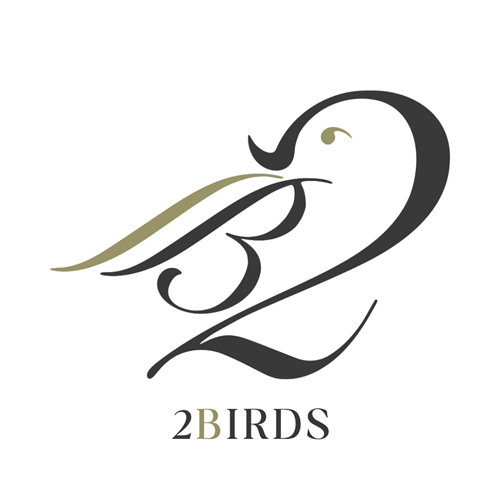
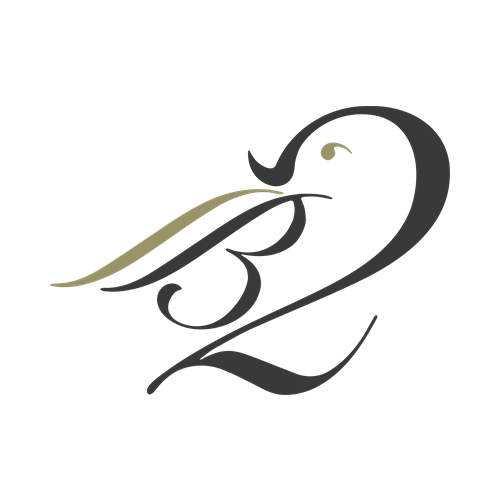
Social sharing: use bird mark only (no wordmark) on the square OG image
Drop the "2BIRDS" wordmark from the share image per request — the mark alone
has nothing at the bottom to crop, so it reads cleanly as a square preview.
500x500 white square, mark centered. Bump cache v8 -> v9.

Changed region(s): [[0.09, 0.18, 0.9, 0.9]]

diff --git a/revenue.html b/revenue.html
@@ -10,8 +10,8 @@
 <meta property="og:title" content="2birds asia | Revenue" />
 <meta property="og:description" content="Marketing that returns as revenue, for training and adult education. Brand, campaigns, graphic and social design with our in-house creative producer Ng Chen Yao, and personal branding video with PixPlaySG, held within SSG's advertising rules." />
 <meta property="og:url" content="https://www.2birds.asia/revenue" />
-<meta property="og:image" content="https://www.2birds.asia/assets/og-image.png?v=8" />
-<meta property="og:image:secure_url" content="https://www.2birds.asia/assets/og-image.png?v=8" />
+<meta property="og:image" content="https://www.2birds.asia/assets/og-image.png?v=9" />
+<meta property="og:image:secure_url" content="https://www.2birds.asia/assets/og-image.png?v=9" />
 <meta property="og:image:type" content="image/png" />
 <meta property="og:image:width" content="500" />
 <meta property="og:image:height" content="500" />
@@ -19,7 +19,7 @@
 <meta name="twitter:card" content="summary" />
 <meta name="twitter:title" content="2birds asia | Revenue" />
 <meta name="twitter:description" content="Marketing that returns as revenue, for training and adult education. Brand, campaigns, graphic and social design with our in-house creative producer Ng Chen Yao, and personal branding video with PixPlaySG, held within SSG's advertising rules." />
-<meta name="twitter:image" content="https://www.2birds.asia/assets/og-image.png?v=8" />
+<meta name="twitter:image" content="https://www.2birds.asia/assets/og-image.png?v=9" />
 
 <link rel="icon" type="image/png" href="assets/favicon.png?v=7" />
 <link rel="shortcut icon" type="image/png" href="assets/favicon.png?v=7" />

diff --git a/curriculum.html b/curriculum.html
@@ -10,8 +10,8 @@
 <meta property="og:title" content="2birds asia | Curriculum" />
 <meta property="og:description" content="Curriculum development for Approved Training Organisations — courseware, assessment instruments and trainer guides mapped to the Skills Framework, built to pass TPQA and submitted through TPGateway." />
 <meta property="og:url" content="https://www.2birds.asia/curriculum" />
-<meta property="og:image" content="https://www.2birds.asia/assets/og-image.png?v=8" />
-<meta property="og:image:secure_url" content="https://www.2birds.asia/assets/og-image.png?v=8" />
+<meta property="og:image" content="https://www.2birds.asia/assets/og-image.png?v=9" />
+<meta property="og:image:secure_url" content="https://www.2birds.asia/assets/og-image.png?v=9" />
 <meta property="og:image:type" content="image/png" />
 <meta property="og:image:width" content="500" />
 <meta property="og:image:height" content="500" />
@@ -19,7 +19,7 @@
 <meta name="twitter:card" content="summary" />
 <meta name="twitter:title" content="2birds asia | Curriculum" />
 <meta name="twitter:description" content="Curriculum development for Approved Training Organisations — courseware, assessment instruments and trainer guides mapped to the Skills Framework, built to pass TPQA and submitted through TPGateway." />
-<meta name="twitter:image" content="https://www.2birds.asia/assets/og-image.png?v=8" />
+<meta name="twitter:image" content="https://www.2birds.asia/assets/og-image.png?v=9" />
 
 <link rel="icon" type="image/png" href="assets/favicon.png?v=7" />
 <link rel="shortcut icon" type="image/png" href="assets/favicon.png?v=7" />

diff --git a/audit.html b/audit.html
@@ -10,8 +10,8 @@
 <meta property="og:title" content="2birds asia | Audit" />
 <meta property="og:description" content="TPQA and CQC compliance advisory for training providers — a pre-audit gap analysis against SSG's criteria, gaps closed and documents in order, long before the audit date." />
 <meta property="og:url" content="https://www.2birds.asia/audit" />
-<meta property="og:image" content="https://www.2birds.asia/assets/og-image.png?v=8" />
-<meta property="og:image:secure_url" content="https://www.2birds.asia/assets/og-image.png?v=8" />
+<meta property="og:image" content="https://www.2birds.asia/assets/og-image.png?v=9" />
+<meta property="og:image:secure_url" content="https://www.2birds.asia/assets/og-image.png?v=9" />
 <meta property="og:image:type" content="image/png" />
 <meta property="og:image:width" content="500" />
 <meta property="og:image:height" content="500" />
@@ -19,7 +19,7 @@
 <meta name="twitter:card" content="summary" />
 <meta name="twitter:title" content="2birds asia | Audit" />
 <meta name="twitter:description" content="TPQA and CQC compliance advisory for training providers — a pre-audit gap analysis against SSG's criteria, gaps closed and documents in order, long before the audit date." />
-<meta name="twitter:image" content="https://www.2birds.asia/assets/og-image.png?v=8" />
+<meta name="twitter:image" content="https://www.2birds.asia/assets/og-image.png?v=9" />
 
 <link rel="icon" type="image/png" href="assets/favicon.png?v=7" />
 <link rel="shortcut icon" type="image/png" href="assets/favicon.png?v=7" />

diff --git a/brand.html b/brand.html
@@ -10,8 +10,8 @@
 <meta property="og:title" content="2birds asia | Brand" />
 <meta property="og:description" content="The brand story of 2birds. Who we are, why we exist, and how we work. A community of independent practitioners serving Singapore's Training and Adult Education sector." />
 <meta property="og:url" content="https://www.2birds.asia/brand" />
-<meta property="og:image" content="https://www.2birds.asia/assets/og-image.png?v=8" />
-<meta property="og:image:secure_url" content="https://www.2birds.asia/assets/og-image.png?v=8" />
+<meta property="og:image" content="https://www.2birds.asia/assets/og-image.png?v=9" />
+<meta property="og:image:secure_url" content="https://www.2birds.asia/assets/og-image.png?v=9" />
 <meta property="og:image:type" content="image/png" />
 <meta property="og:image:width" content="500" />
 <meta property="og:image:height" content="500" />
@@ -19,7 +19,7 @@
 <meta name="twitter:card" content="summary" />
 <meta name="twitter:title" content="2birds asia | Brand" />
 <meta name="twitter:description" content="The brand story of 2birds. Who we are, why we exist, and how we work. A community of independent practitioners serving Singapore's Training and Adult Education sector." />
-<meta name="twitter:image" content="https://www.2birds.asia/assets/og-image.png?v=8" />
+<meta name="twitter:image" content="https://www.2birds.asia/assets/og-image.png?v=9" />
 
 <link rel="icon" type="image/png" href="assets/favicon.png?v=7" />
 <link rel="shortcut icon" type="image/png" href="assets/favicon.png?v=7" />

diff --git a/contact.html b/contact.html
@@ -10,8 +10,8 @@
 <meta property="og:title" content="2birds asia | Make an enquiry" />
 <meta property="og:description" content="Write to 2birds. A note about a curriculum, audit, ATO setup or sourcing engagement is enough to begin; you will hear from us within two working days." />
 <meta property="og:url" content="https://www.2birds.asia/contact" />
-<meta property="og:image" content="https://www.2birds.asia/assets/og-image.png?v=8" />
-<meta property="og:image:secure_url" content="https://www.2birds.asia/assets/og-image.png?v=8" />
+<meta property="og:image" content="https://www.2birds.asia/assets/og-image.png?v=9" />
+<meta property="og:image:secure_url" content="https://www.2birds.asia/assets/og-image.png?v=9" />
 <meta property="og:image:type" content="image/png" />
 <meta property="og:image:width" content="500" />
 <meta property="og:image:height" content="500" />
@@ -19,7 +19,7 @@
 <meta name="twitter:card" content="summary" />
 <meta name="twitter:title" content="2birds asia | Make an enquiry" />
 <meta name="twitter:description" content="Write to 2birds. A note about a curriculum, audit, ATO setup or sourcing engagement is enough to begin; you will hear from us within two working days." />
-<meta name="twitter:image" content="https://www.2birds.asia/assets/og-image.png?v=8" />
+<meta name="twitter:image" content="https://www.2birds.asia/assets/og-image.png?v=9" />
 
 <link rel="icon" type="image/png" href="assets/favicon.png?v=7" />
 <link rel="shortcut icon" type="image/png" href="assets/favicon.png?v=7" />

diff --git a/setup.html b/setup.html
@@ -10,8 +10,8 @@
 <meta property="og:title" content="2birds asia | ATO Setup" />
 <meta property="og:description" content="Sourcing and ATO setup — trainers and subject-matter experts introduced at no cost, with support through registration, accreditation and your first cohort." />
 <meta property="og:url" content="https://www.2birds.asia/setup" />
-<meta property="og:image" content="https://www.2birds.asia/assets/og-image.png?v=8" />
-<meta property="og:image:secure_url" content="https://www.2birds.asia/assets/og-image.png?v=8" />
+<meta property="og:image" content="https://www.2birds.asia/assets/og-image.png?v=9" />
+<meta property="og:image:secure_url" content="https://www.2birds.asia/assets/og-image.png?v=9" />
 <meta property="og:image:type" content="image/png" />
 <meta property="og:image:width" content="500" />
 <meta property="og:image:height" content="500" />
@@ -19,7 +19,7 @@
 <meta name="twitter:card" content="summary" />
 <meta name="twitter:title" content="2birds asia | ATO Setup" />
 <meta name="twitter:description" content="Sourcing and ATO setup — trainers and subject-matter experts introduced at no cost, with support through registration, accreditation and your first cohort." />
-<meta name="twitter:image" content="https://www.2birds.asia/assets/og-image.png?v=8" />
+<meta name="twitter:image" content="https://www.2birds.asia/assets/og-image.png?v=9" />
 
 <link rel="icon" type="image/png" href="assets/favicon.png?v=7" />
 <link rel="shortcut icon" type="image/png" href="assets/favicon.png?v=7" />

diff --git a/sourcing.html b/sourcing.html
@@ -10,8 +10,8 @@
 <meta property="og:title" content="2birds asia | Sourcing" />
 <meta property="og:description" content="Sourcing trainers and subject-matter experts for Approved Training Organisations, introduced at no markup, with the evidence SSG requires prepared for you." />
 <meta property="og:url" content="https://www.2birds.asia/sourcing" />
-<meta property="og:image" content="https://www.2birds.asia/assets/og-image.png?v=8" />
-<meta property="og:image:secure_url" content="https://www.2birds.asia/assets/og-image.png?v=8" />
+<meta property="og:image" content="https://www.2birds.asia/assets/og-image.png?v=9" />
+<meta property="og:image:secure_url" content="https://www.2birds.asia/assets/og-image.png?v=9" />
 <meta property="og:image:type" content="image/png" />
 <meta property="og:image:width" content="500" />
 <meta property="og:image:height" content="500" />
@@ -19,7 +19,7 @@
 <meta name="twitter:card" content="summary" />
 <meta name="twitter:title" content="2birds asia | Sourcing" />
 <meta name="twitter:description" content="Sourcing trainers and subject-matter experts for Approved Training Organisations, introduced at no markup, with the evidence SSG requires prepared for you." />
-<meta name="twitter:image" content="https://www.2birds.asia/assets/og-image.png?v=8" />
+<meta name="twitter:image" content="https://www.2birds.asia/assets/og-image.png?v=9" />
 
 <link rel="icon" type="image/png" href="assets/favicon.png?v=7" />
 <link rel="shortcut icon" type="image/png" href="assets/favicon.png?v=7" />

diff --git a/engagement.html b/engagement.html
@@ -10,8 +10,8 @@
 <meta property="og:title" content="2birds asia | Engagement" />
 <meta property="og:description" content="Terms of Engagement for 2BIRDS PRIVATE LIMITED — the conditions on which the practice accepts curriculum, advisory and related engagements." />
 <meta property="og:url" content="https://www.2birds.asia/engagement" />
-<meta property="og:image" content="https://www.2birds.asia/assets/og-image.png?v=8" />
-<meta property="og:image:secure_url" content="https://www.2birds.asia/assets/og-image.png?v=8" />
+<meta property="og:image" content="https://www.2birds.asia/assets/og-image.png?v=9" />
+<meta property="og:image:secure_url" content="https://www.2birds.asia/assets/og-image.png?v=9" />
 <meta property="og:image:type" content="image/png" />
 <meta property="og:image:width" content="500" />
 <meta property="og:image:height" content="500" />
@@ -19,7 +19,7 @@
 <meta name="twitter:card" content="summary" />
 <meta name="twitter:title" content="2birds asia | Engagement" />
 <meta name="twitter:description" content="Terms of Engagement for 2BIRDS PRIVATE LIMITED — the conditions on which the practice accepts curriculum, advisory and related engagements." />
-<meta name="twitter:image" content="https://www.2birds.asia/assets/og-image.png?v=8" />
+<meta name="twitter:image" content="https://www.2birds.asia/assets/og-image.png?v=9" />
 
 <link rel="icon" type="image/png" href="assets/favicon.png?v=7" />
 <link rel="shortcut icon" type="image/png" href="assets/favicon.png?v=7" />

diff --git a/index.html b/index.html
@@ -10,8 +10,8 @@
 <meta property="og:title" content="2birds asia | Home" />
 <meta property="og:description" content="A practice of curriculum developers, subject-matter experts and adult educators, trusted by Approved Training Organisations (ATOs)." />
 <meta property="og:url" content="https://www.2birds.asia/" />
-<meta property="og:image" content="https://www.2birds.asia/assets/og-image.png?v=8" />
-<meta property="og:image:secure_url" content="https://www.2birds.asia/assets/og-image.png?v=8" />
+<meta property="og:image" content="https://www.2birds.asia/assets/og-image.png?v=9" />
+<meta property="og:image:secure_url" content="https://www.2birds.asia/assets/og-image.png?v=9" />
 <meta property="og:image:type" content="image/png" />
 <meta property="og:image:width" content="500" />
 <meta property="og:image:height" content="500" />
@@ -19,7 +19,7 @@
 <meta name="twitter:card" content="summary" />
 <meta name="twitter:title" content="2birds asia | Home" />
 <meta name="twitter:description" content="A practice of curriculum developers, subject-matter experts and adult educators, trusted by Approved Training Organisations (ATOs)." />
-<meta name="twitter:image" content="https://www.2birds.asia/assets/og-image.png?v=8" />
+<meta name="twitter:image" content="https://www.2birds.asia/assets/og-image.png?v=9" />
 
 <link rel="icon" type="image/png" href="assets/favicon.png?v=7" />
 <link rel="shortcut icon" type="image/png" href="assets/favicon.png?v=7" />

diff --git a/privacy.html b/privacy.html
@@ -10,8 +10,8 @@
 <meta property="og:title" content="2birds asia | Privacy Policy" />
 <meta property="og:description" content="Privacy Policy for 2BIRDS PRIVATE LIMITED, set out in accordance with Singapore's Personal Data Protection Act 2012." />
 <meta property="og:url" content="https://www.2birds.asia/privacy" />
-<meta property="og:image" content="https://www.2birds.asia/assets/og-image.png?v=8" />
-<meta property="og:image:secure_url" content="https://www.2birds.asia/assets/og-image.png?v=8" />
+<meta property="og:image" content="https://www.2birds.asia/assets/og-image.png?v=9" />
+<meta property="og:image:secure_url" content="https://www.2birds.asia/assets/og-image.png?v=9" />
 <meta property="og:image:type" content="image/png" />
 <meta property="og:image:width" content="500" />
 <meta property="og:image:height" content="500" />
@@ -19,7 +19,7 @@
 <meta name="twitter:card" content="summary" />
 <meta name="twitter:title" content="2birds asia | Privacy Policy" />
 <meta name="twitter:description" content="Privacy Policy for 2BIRDS PRIVATE LIMITED, set out in accordance with Singapore's Personal Data Protection Act 2012." />
-<meta name="twitter:image" content="https://www.2birds.asia/assets/og-image.png?v=8" />
+<meta name="twitter:image" content="https://www.2birds.asia/assets/og-image.png?v=9" />
 
 <link rel="icon" type="image/png" href="assets/favicon.png?v=7" />
 <link rel="shortcut icon" type="image/png" href="assets/favicon.png?v=7" />

diff --git a/terms.html b/terms.html
@@ -10,8 +10,8 @@
 <meta property="og:title" content="2birds asia | Legal Statement" />
 <meta property="og:description" content="Legal Statement and Terms of Use for the 2birds website, issued by 2BIRDS PRIVATE LIMITED." />
 <meta property="og:url" content="https://www.2birds.asia/terms" />
-<meta property="og:image" content="https://www.2birds.asia/assets/og-image.png?v=8" />
-<meta property="og:image:secure_url" content="https://www.2birds.asia/assets/og-image.png?v=8" />
+<meta property="og:image" content="https://www.2birds.asia/assets/og-image.png?v=9" />
+<meta property="og:image:secure_url" content="https://www.2birds.asia/assets/og-image.png?v=9" />
 <meta property="og:image:type" content="image/png" />
 <meta property="og:image:width" content="500" />
 <meta property="og:image:height" content="500" />
@@ -19,7 +19,7 @@
 <meta name="twitter:card" content="summary" />
 <meta name="twitter:title" content="2birds asia | Legal Statement" />
 <meta name="twitter:description" content="Legal Statement and Terms of Use for the 2birds website, issued by 2BIRDS PRIVATE LIMITED." />
-<meta name="twitter:image" content="https://www.2birds.asia/assets/og-image.png?v=8" />
+<meta name="twitter:image" content="https://www.2birds.asia/assets/og-image.png?v=9" />
 
 <link rel="icon" type="image/png" href="assets/favicon.png?v=7" />
 <link rel="shortcut icon" type="image/png" href="assets/favicon.png?v=7" />
